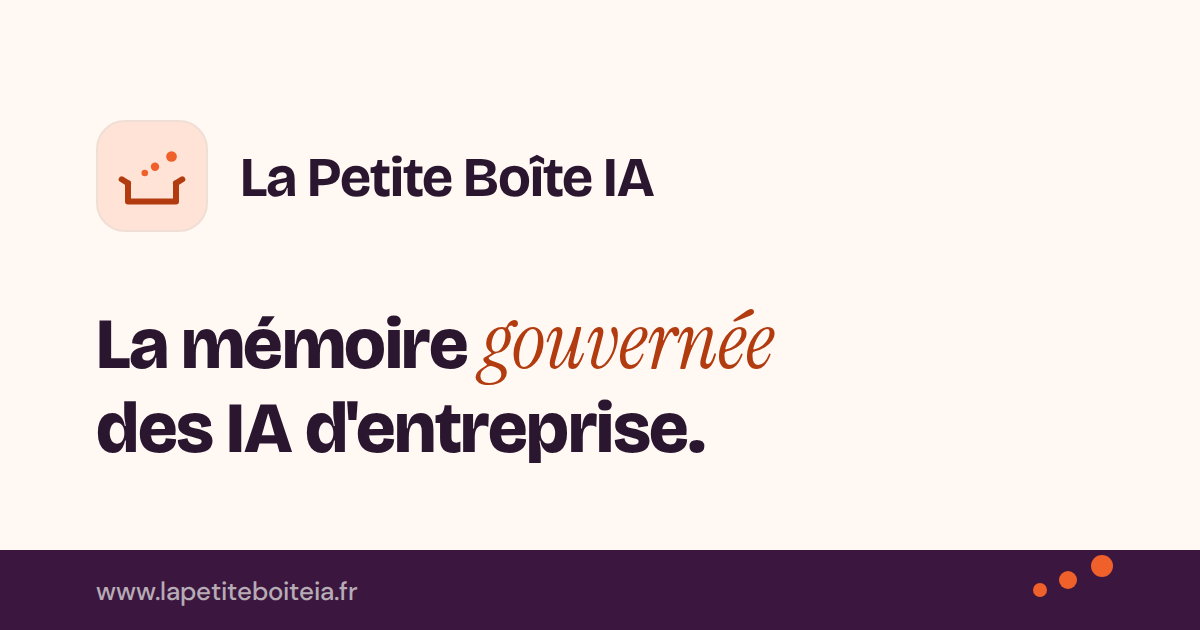
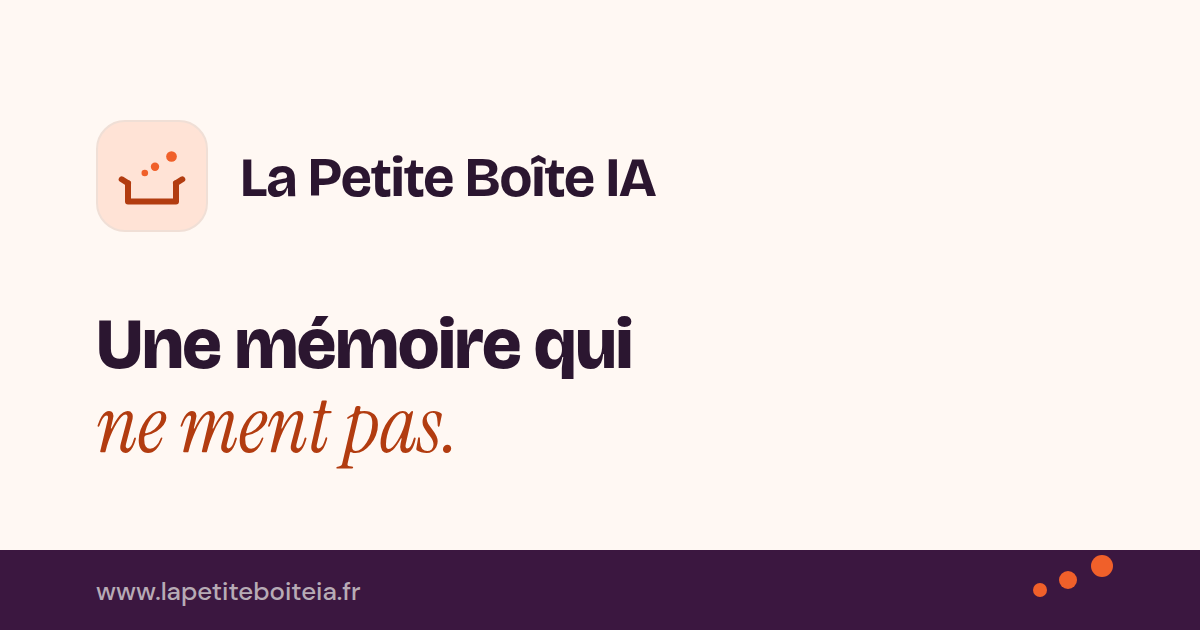
feat(copy): arbitration positioning on the home page
Replace the « mémoire gouvernée / second cerveau » copy with the human
arbitration positioning (brief of 2026-11-24): hero, constat, guarantees,
hub tag and order, comparison table, pilots, FAQ, final call to action,
meta description, og:image alt and the og:image headline.

Same sections, components, tokens, links and animation. Two lines added
with existing classes: the guarantees closing line and the hub example
note. The hub keeps 4 examples: « Compare » is not placed.

diff --git a/src/data/landing.ts b/src/data/landing.ts
@@ -1,7 +1,8 @@
-// Landing copy, verbatim from the app repository's gabarits/landing.html.
-// Keep every string as in the source. See CLAUDE.md.
+// Landing copy, verbatim from the arbitration positioning brief of 2026-11-24
+// (it replaces the copy first taken from the app's gabarits/landing.html).
+// Keep every string as written there. See CLAUDE.md.
 
-/** Assistants that are connected and tested. Card 1, FAQ 2 and the hub label read them here. */
+/** Assistants that are connected and tested. Card 3, FAQ 5 and the hub label read them here. */
 export const assistants: readonly string[] = ["Claude", "Le Chat de Mistral"];
 
 /** Booking link shared by every « Voir la démo » call to action. A plain link: no embed, no script. */
@@ -18,7 +19,7 @@ export function enumerate(items: readonly string[], conjunction: string): string
 export const meta = {
   title: "La Petite Boîte IA · Une mémoire qui ne ment pas",
   description:
-    "La mémoire gouvernée de vos IA. Ce qu'un collaborateur apprend à son assistant sert à toute l'équipe, et aucune règle validée ne change sans un responsable.",
+    "Ce que vos équipes choisissent de partager avec leurs assistants IA devient une règle d'entreprise à jour, tranchée par vos responsables, pas par la machine.",
 } as const;
 
 export interface Pillar {
@@ -29,19 +30,19 @@ export interface Pillar {
 
 export const pillars: readonly Pillar[] = [
   {
+    icon: "lock",
+    title: "La contradiction est bloquée",
+    body: "Quand une information contredit une règle en vigueur, elle n'entre pas. En attendant, tout le monde continue de recevoir la règle validée.",
+  },
+  {
     icon: "chat",
-    title: "Une mémoire collective, quel que soit l'assistant",
-    body: `Ce qu'une personne apprend à son IA sert à ses collègues, qu'ils utilisent ${enumerate(assistants, "ou")}. Aucun nouvel outil à adopter.`,
+    title: "Le bon responsable tranche",
+    body: "Le désaccord part à la personne qui porte déjà le sujet : RH, conformité, chef d'atelier. Pas de revue de toute la base : elle ne voit que les désaccords.",
   },
   {
     icon: "doc",
-    title: "Rien n'est écrasé",
-    body: "Quand une information contredit une règle validée, elle attend la décision du responsable métier. L'ancienne version reste dans l'historique.",
-  },
-  {
-    icon: "lock",
-    title: "Les savoirs d'une équipe restent dans l'équipe",
-    body: "Les RH gardent leurs règles, la Production les siennes.",
+    title: "Tous vos assistants s'alignent",
+    body: `La règle tranchée est servie aux assistants déjà déployés, ${enumerate(assistants, "et")} aujourd'hui, avec sa source. Une règle remplacée sort des réponses, jamais de l'historique.`,
   },
 ];
 
@@ -60,16 +61,16 @@ export const hubExamples: readonly HubExample[] = [
     output: "Commande des EPI : au plus tard le mercredi. Partagé avec toute l'équipe, dès qu'un tuteur l'a appris à son assistant.",
   },
   {
-    term: "Compare",
-    input: "« Combien de temps dure la formation sécurité ? »",
-    detail: "un responsable, dans Claude",
-    output: "Formation sécurité : 4 h depuis le 1er octobre, validée par le responsable. La version à 3 h reste dans l'historique.",
-  },
-  {
-    term: "Soumet au responsable",
+    term: "Bloque et soumet au responsable",
     input: "« Un tuteur peut accompagner 3 nouveaux arrivants. »",
     detail: "un tuteur",
     output: "Contradiction signalée : la règle validée (2 arrivants) reste la réponse sûre. La nouvelle affirmation attend le responsable.",
+  },
+  {
+    term: "Sert la règle tranchée",
+    input: "« Combien de temps dure la formation sécurité ? »",
+    detail: "un responsable, dans Claude",
+    output: "Formation sécurité : 4 h depuis le 1er octobre, validée par le responsable. La version à 3 h reste dans l'historique.",
   },
   {
     term: "Dit ce qu'elle ne sait pas",
@@ -87,34 +88,29 @@ export interface Comparison {
 
 export const comparisons: readonly Comparison[] = [
   {
-    situation: "Ce qu'un collaborateur apprend",
-    assistant: "Reste dans sa conversation",
-    lpbia: "Sert à toute l'équipe, quel que soit son assistant",
+    situation: "Une correction contredit une règle",
+    assistant: "Retenue telle quelle : le dernier qui a parlé a raison",
+    lpbia: "Bloquée, le responsable du sujet tranche",
   },
   {
-    situation: "Deux versions d'une même règle",
-    assistant: "Renvoie les passages les plus proches, toutes versions mêlées",
-    lpbia: "Sert la règle en vigueur ; la nouvelle version attend la décision du responsable",
+    situation: "Qui relit",
+    assistant: "Tout le monde, ou personne",
+    lpbia: "Seulement les désaccords, par le bon responsable",
   },
   {
-    situation: "Une information contredit une règle",
-    assistant: "Rien ne la distingue d'une information fiable",
-    lpbia: "Signalée, soumise au responsable, jamais écrasée",
+    situation: "Une règle est remplacée",
+    assistant: "Les deux versions se mélangent",
+    lpbia: "L'ancienne sort des réponses, reste dans l'historique",
   },
   {
-    situation: "Fraîcheur des règles",
-    assistant: "Pas de statut ni de date de validité",
-    lpbia: "Chaque règle porte son statut et sa date",
+    situation: "D'où vient la réponse",
+    assistant: "Pas toujours dit",
+    lpbia: "Source et auteur, à chaque fois",
   },
   {
-    situation: "Origine de l'information",
-    assistant: "Cite le document",
-    lpbia: "Cite la phrase d'origine, le document et l'historique des versions",
-  },
-  {
-    situation: "Dépendance à un éditeur",
-    assistant: "La mémoire reste dans l'outil de l'éditeur",
-    lpbia: "Une mémoire unique, servie à plusieurs assistants",
+    situation: "L'information manque",
+    assistant: "L'IA invente",
+    lpbia: "Elle le dit, et la question remonte",
   },
 ];
 
@@ -123,41 +119,36 @@ export interface Question {
   readonly answer: string;
 }
 
-// FAQ 4 (hosting in Europe): Hetzner, Helsinki, as the legal notice states.
+// FAQ 6 (data in Europe): Hetzner, Helsinki, as the legal notice states.
 export const questions: readonly Question[] = [
   {
-    question: "Est-ce un « Corporate Brain » ?",
+    question: "Est-ce un « company brain » de plus ?",
     answer:
-      "Oui, avec une différence. Un Corporate Brain classique retient tout, y compris ce qui n'est plus vrai. La Petite Boîte IA distingue ce qui est validé, ce qui attend une décision et ce qui ne vaut plus. Et elle se met en place sans projet documentaire : vos pages existantes s'importent, et vos équipes l'enrichissent en parlant à leur assistant.",
+      "Non. Un company brain retient tout, y compris ce qui n'est plus vrai, ou laisse l'IA réconcilier seule. Ici, quand deux versions s'opposent, c'est votre responsable qui tranche.",
   },
   {
-    question: "Et si mes équipes n'utilisent pas le même assistant ?",
-    answer: `La mémoire ne dépend pas de l'assistant. Aujourd'hui, ${enumerate(assistants, "et")} y sont connectés. Ce qu'un collaborateur apprend dans l'un est disponible dans l'autre.`,
+    question: "Mon responsable va-t-il passer ses journées à valider ?",
+    answer:
+      "Non. Seuls les désaccords lui remontent, et seulement ceux de son sujet. Tout ce qui ne contredit rien entre seul.",
   },
   {
-    question: "Que se passe-t-il quand la mémoire ne sait pas ?",
+    question: "Vous écoutez nos salariés ?",
     answer:
-      "Elle le signale à l'assistant, qui peut vous dire que l'information n'existe pas au lieu d'en inventer une. La question rejoint les connaissances manquantes, pour que le responsable sache quoi capitaliser ensuite.",
+      "Non. Seul ce qu'un collaborateur demande à son assistant de retenir pour l'équipe entre dans la mémoire, avec son nom. Rien n'entre à son insu.",
   },
   {
-    question: "Comment sont gérés les accès et la confidentialité ?",
+    question: "Faut-il un projet documentaire ?",
     answer:
-      "Les savoirs d'une équipe restent dans l'équipe : les autres équipes n'y accèdent pas. La plateforme est hébergée en Europe.",
+      "Non. On part de vos documents existants, et la mémoire s'améliore ensuite avec le terrain.",
   },
   {
-    question: "Et si le savoir n'est écrit nulle part ?",
-    answer:
-      "Le savoir qui vit dans la tête d'un expert ne s'importe pas : il se capte. Notre Mission Savoir Critique le recueille en deux ateliers d'1h30 pour remplir la mémoire dès le départ.",
+    question: "Avec quels assistants ?",
+    answer: `${enumerate(assistants, "et")} aujourd'hui, directement dans les outils de vos équipes. Une offre Starter inclut aussi un espace de discussion, sans la DSI.`,
   },
   {
-    question: "Combien de temps prend la mise en place ?",
+    question: "Où sont mes données ?",
     answer:
-      "Pour la bêta, nous l'organisons avec vous : import de vos pages existantes, ouverture des accès, prise en main du cockpit par le responsable. Le calendrier se fixe ensemble, selon votre périmètre.",
-  },
-  {
-    question: "Qu'est-ce qui arrive ensuite ?",
-    answer:
-      "Notre feuille de route prévoit la connexion à votre annuaire d'entreprise, l'export complet de votre mémoire et un tableau de bord de sa santé. Les partenaires de la bêta participent à leur priorisation.",
+      "En Europe. Chaque entreprise a son espace séparé, et vos connaissances restent votre propriété.",
   },
 ];
 
